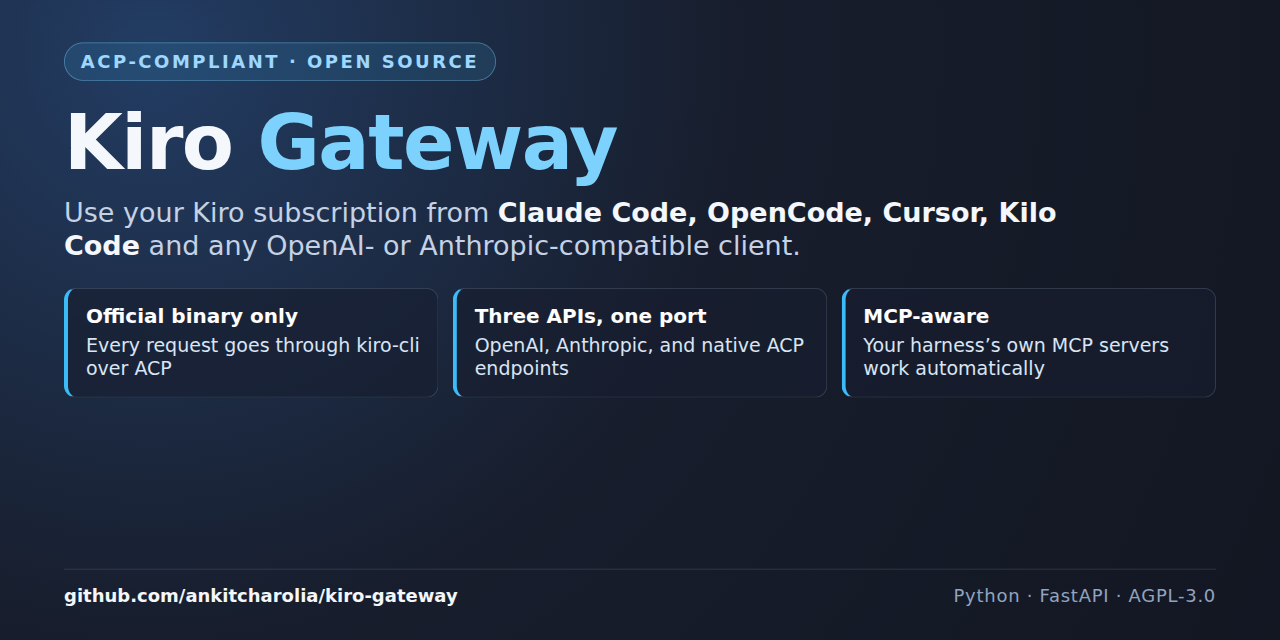
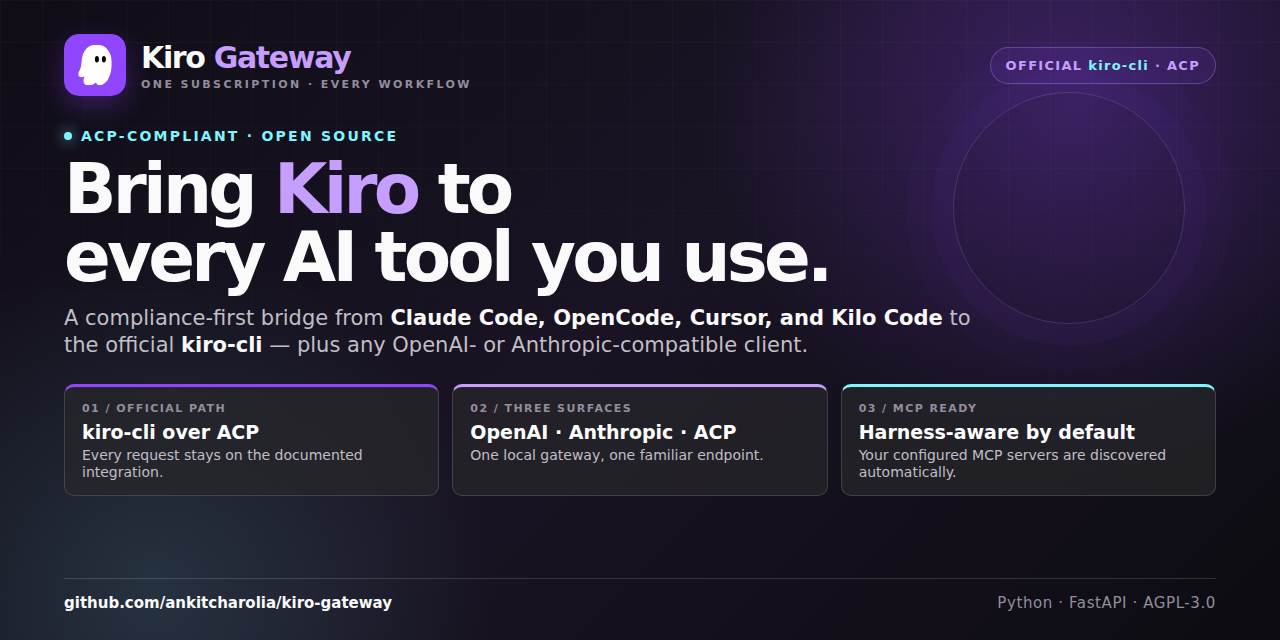
docs: refresh social preview and README navigation

diff --git a/assets/social-preview.html b/assets/social-preview.html
@@ -10,8 +10,10 @@
         --viewport-size=1280,640 \
         assets/social-preview.html assets/social-preview.png
 
-  Keep the claims here consistent with the root README: official kiro-cli only,
-  OpenAI/Anthropic/ACP translation, and harness MCP discovery.
+  The inline mark mirrors Kiro's official icon and keeps this preview
+  self-contained. Keep the claims here consistent with the root README:
+  official kiro-cli only, OpenAI/Anthropic/ACP translation, and harness MCP
+  discovery.
 -->
 <html lang="en">
   <head>
@@ -32,120 +34,281 @@
       }
 
       body {
+        position: relative;
         display: flex;
         flex-direction: column;
         justify-content: space-between;
-        padding: 42px 64px 34px;
-        background: radial-gradient(circle at 12% 8%, #1d3a63 0%, #101728 46%, #0a0f1c 100%);
-        color: #f4f7fb;
+        padding: 34px 64px 28px;
+        overflow: hidden;
+        background:
+          radial-gradient(circle at 84% 16%, rgba(144, 70, 255, 0.3), transparent 31%),
+          radial-gradient(circle at 12% 92%, rgba(128, 244, 255, 0.14), transparent 27%),
+          linear-gradient(135deg, #100d17 0%, #191323 48%, #0d0c12 100%);
+        color: #fafafa;
         font-family: "DejaVu Sans", "Liberation Sans", Arial, Helvetica, sans-serif;
+      }
+
+      body::before {
+        position: absolute;
+        inset: 0;
+        z-index: 0;
+        background-image:
+          linear-gradient(rgba(255, 255, 255, 0.035) 1px, transparent 1px),
+          linear-gradient(90deg, rgba(255, 255, 255, 0.035) 1px, transparent 1px);
+        background-size: 42px 42px;
+        content: "";
+        mask-image: linear-gradient(to bottom, rgba(0, 0, 0, 0.8), transparent 78%);
+      }
+
+      body::after {
+        position: absolute;
+        top: 92px;
+        right: 95px;
+        width: 230px;
+        height: 230px;
+        border: 1px solid rgba(197, 158, 255, 0.2);
+        border-radius: 50%;
+        box-shadow:
+          0 0 0 22px rgba(144, 70, 255, 0.045),
+          0 0 0 48px rgba(144, 70, 255, 0.025);
+        content: "";
+      }
+
+      .content,
+      footer {
+        position: relative;
+        z-index: 1;
+      }
+
+      .topbar {
+        display: flex;
+        align-items: center;
+        justify-content: space-between;
+      }
+
+      .brand {
+        display: flex;
+        align-items: center;
+        gap: 15px;
+      }
+
+      .brand-mark {
+        width: 62px;
+        height: 62px;
+        flex: 0 0 auto;
+        border-radius: 15px;
+        box-shadow: 0 10px 28px rgba(144, 70, 255, 0.3);
+      }
+
+      .brand-name {
+        color: #fafafa;
+        font-size: 30px;
+        font-weight: 700;
+        letter-spacing: -0.045em;
+      }
+
+      .brand-name span {
+        color: #c59eff;
+      }
+
+      .brand-subtitle {
+        margin-top: 3px;
+        color: #938d9c;
+        font-size: 11px;
+        font-weight: 700;
+        letter-spacing: 0.22em;
+        text-transform: uppercase;
+      }
+
+      .protocol {
+        padding: 10px 15px;
+        border: 1px solid rgba(197, 158, 255, 0.3);
+        border-radius: 999px;
+        background: rgba(144, 70, 255, 0.1);
+        color: #c59eff;
+        font-size: 13px;
+        font-weight: 700;
+        letter-spacing: 0.1em;
+      }
+
+      .protocol span {
+        color: #80f4ff;
+      }
+
+      .hero {
+        margin-top: 29px;
       }
 
       .eyebrow {
         display: inline-flex;
         align-items: center;
-        gap: 10px;
-        padding: 8px 16px;
-        border: 1px solid rgba(125, 211, 252, 0.42);
-        border-radius: 999px;
-        background: rgba(56, 189, 248, 0.12);
-        color: #9fd8ff;
-        font-size: 18px;
-        font-weight: 600;
-        letter-spacing: 0.14em;
+        gap: 9px;
+        color: #80f4ff;
+        font-size: 14px;
+        font-weight: 700;
+        letter-spacing: 0.16em;
         text-transform: uppercase;
-        align-self: flex-start;
+      }
+
+      .eyebrow::before {
+        width: 8px;
+        height: 8px;
+        border-radius: 50%;
+        background: #80f4ff;
+        box-shadow: 0 0 14px rgba(128, 244, 255, 0.9);
+        content: "";
       }
 
       h1 {
-        margin-top: 24px;
-        font-size: 76px;
-        line-height: 1;
+        max-width: 950px;
+        margin-top: 12px;
+        color: #fafafa;
+        font-size: 69px;
+        line-height: 0.98;
         font-weight: 700;
-        letter-spacing: -0.02em;
+        letter-spacing: -0.055em;
       }
 
-      h1 span {
-        color: #7dd3fc;
+      h1 .accent {
+        color: #c59eff;
       }
 
-      p.lede {
-        margin-top: 16px;
-        max-width: 1060px;
-        font-size: 27px;
-        line-height: 1.22;
-        color: #c6d3e6;
+      .lede {
+        max-width: 940px;
+        margin-top: 14px;
+        color: #c1bec6;
+        font-size: 21px;
+        line-height: 1.28;
       }
 
-      p.lede strong {
-        color: #f4f7fb;
+      .lede strong {
+        color: #fafafa;
         font-weight: 600;
       }
 
-      ul {
+      .features {
         display: flex;
-        gap: 14px;
+        gap: 13px;
+        margin-top: 25px;
         list-style: none;
-        margin-top: 26px;
       }
 
-      li {
+      .feature {
+        min-height: 93px;
         flex: 1;
-        padding: 16px 18px;
-        border: 1px solid rgba(148, 163, 184, 0.28);
-        border-left: 4px solid #38bdf8;
-        border-radius: 12px;
-        background: rgba(15, 23, 42, 0.62);
-        font-size: 19px;
-        line-height: 1.22;
-        color: #dbe6f5;
+        padding: 15px 17px 14px;
+        border: 1px solid rgba(193, 190, 198, 0.2);
+        border-top: 3px solid #9046ff;
+        border-radius: 10px;
+        background: rgba(39, 39, 42, 0.72);
+        box-shadow: inset 0 1px rgba(255, 255, 255, 0.045);
       }
 
-      li b {
+      .feature:nth-child(2) {
+        border-top-color: #c59eff;
+      }
+
+      .feature:nth-child(3) {
+        border-top-color: #80f4ff;
+      }
+
+      .feature-label {
         display: block;
-        margin-bottom: 5px;
+        margin-bottom: 7px;
+        color: #938d9c;
+        font-size: 11px;
+        font-weight: 700;
+        letter-spacing: 0.13em;
+      }
+
+      .feature strong {
+        display: block;
         color: #ffffff;
-        font-size: 20px;
+        font-size: 19px;
+        line-height: 1.08;
+      }
+
+      .feature p {
+        margin-top: 5px;
+        color: #c1bec6;
+        font-size: 14px;
+        line-height: 1.2;
       }
 
       footer {
         display: flex;
         align-items: center;
         justify-content: space-between;
-        margin-top: 22px;
-        padding-top: 16px;
-        border-top: 1px solid rgba(148, 163, 184, 0.24);
-        font-size: 18px;
-        color: #93a6c0;
+        padding-top: 15px;
+        border-top: 1px solid rgba(193, 190, 198, 0.2);
+        color: #938d9c;
+        font-size: 15px;
       }
 
-      footer .repo {
-        color: #f4f7fb;
+      .repo {
+        color: #fafafa;
         font-weight: 600;
       }
 
-      footer .tags {
+      .tags {
         letter-spacing: 0.04em;
       }
     </style>
   </head>
   <body>
-    <div>
-      <div class="eyebrow">ACP-compliant &middot; open source</div>
-      <h1>Kiro <span>Gateway</span></h1>
-      <p class="lede">
-        Use your Kiro subscription from <strong>Claude Code, OpenCode, Cursor, Kilo Code</strong>
-        and any OpenAI- or Anthropic-compatible client.
-      </p>
-      <ul>
-        <li><b>Official binary only</b>Every request goes through kiro-cli over ACP</li>
-        <li><b>Three APIs, one port</b>OpenAI, Anthropic, and native ACP endpoints</li>
-        <li><b>MCP-aware</b>Your harness&rsquo;s own MCP servers work automatically</li>
-      </ul>
+    <div class="content">
+      <div class="topbar">
+        <div class="brand">
+          <svg class="brand-mark" viewBox="0 0 1200 1200" fill="none" xmlns="http://www.w3.org/2000/svg" aria-label="Kiro logo">
+            <rect width="1200" height="1200" rx="260" fill="#9046FF" />
+            <mask id="kiro-mark-mask" style="mask-type: luminance" maskUnits="userSpaceOnUse" x="272" y="202" width="655" height="796">
+              <path d="M926.578 202.793H272.637V997.857H926.578V202.793Z" fill="white" />
+            </mask>
+            <g mask="url(#kiro-mark-mask)">
+              <path d="M398.554 818.914C316.315 1001.03 491.477 1046.74 620.672 940.156C658.687 1059.66 801.052 970.473 852.234 877.795C964.787 673.567 919.318 465.357 907.64 422.374C827.637 129.443 427.623 128.946 358.8 423.865C342.651 475.544 342.402 534.18 333.458 595.051C328.986 625.86 325.507 645.488 313.83 677.785C306.873 696.424 297.68 712.819 282.773 740.645C259.915 783.881 269.604 867.113 387.87 823.883L399.051 818.914H398.554Z" fill="white" />
+              <path d="M636.123 549.353C603.328 549.353 598.359 510.097 598.359 486.742C598.359 465.623 602.086 448.977 609.293 438.293C615.504 428.852 624.697 424.131 636.123 424.131C647.555 424.131 657.492 428.852 664.447 438.541C672.398 449.474 676.623 466.12 676.623 486.742C676.623 525.998 661.471 549.353 636.375 549.353H636.123Z" fill="black" />
+              <path d="M771.24 549.353C738.445 549.353 733.477 510.097 733.477 486.742C733.477 465.623 737.203 448.977 744.41 438.293C750.621 428.852 759.814 424.131 771.24 424.131C782.672 424.131 792.609 428.852 799.564 438.541C807.516 449.474 811.74 466.12 811.74 486.742C811.74 525.998 796.588 549.353 771.492 549.353H771.24Z" fill="black" />
+            </g>
+          </svg>
+          <div>
+            <div class="brand-name">Kiro <span>Gateway</span></div>
+            <div class="brand-subtitle">One subscription · every workflow</div>
+          </div>
+        </div>
+        <div class="protocol">OFFICIAL <span>kiro-cli</span> · ACP</div>
+      </div>
+
+      <main class="hero">
+        <div class="eyebrow">ACP-compliant · open source</div>
+        <h1>Bring <span class="accent">Kiro</span> to<br />every AI tool you use.</h1>
+        <p class="lede">
+          A compliance-first bridge from <strong>Claude Code, OpenCode, Cursor, and Kilo Code</strong>
+          to the official <strong>kiro-cli</strong> — plus any OpenAI- or Anthropic-compatible client.
+        </p>
+
+        <ul class="features">
+          <li class="feature">
+            <span class="feature-label">01 / OFFICIAL PATH</span>
+            <strong>kiro-cli over ACP</strong>
+            <p>Every request stays on the documented integration.</p>
+          </li>
+          <li class="feature">
+            <span class="feature-label">02 / THREE SURFACES</span>
+            <strong>OpenAI · Anthropic · ACP</strong>
+            <p>One local gateway, one familiar endpoint.</p>
+          </li>
+          <li class="feature">
+            <span class="feature-label">03 / MCP READY</span>
+            <strong>Harness-aware by default</strong>
+            <p>Your configured MCP servers are discovered automatically.</p>
+          </li>
+        </ul>
+      </main>
     </div>
+
     <footer>
       <span class="repo">github.com/ankitcharolia/kiro-gateway</span>
-      <span class="tags">Python &middot; FastAPI &middot; AGPL-3.0</span>
+      <span class="tags">Python · FastAPI · AGPL-3.0</span>
     </footer>
   </body>
 </html>

diff --git a/README.md b/README.md
@@ -1,5 +1,7 @@
 # ACP-Compliant Kiro Gateway — use Kiro from the AI tools you already use
 
+🌐 **Docs:** 🇪🇸 [Español](docs/es/README.md) · 🇵🇹 [Português](docs/pt/README.md) · 🇨🇳 [中文](docs/zh/README.md) · 🇯🇵 [日本語](docs/ja/README.md) · 🇰🇷 [한국어](docs/ko/README.md) · 🇷🇺 [Русский](docs/ru/README.md) · 🇮🇩 [Bahasa Indonesia](docs/id/README.md) · 📚 [documentation index](docs/README.md)
+
 [![CI](https://github.com/ankitcharolia/kiro-gateway/actions/workflows/ci.yml/badge.svg)](https://github.com/ankitcharolia/kiro-gateway/actions/workflows/ci.yml)
 [![License: AGPL-3.0](https://img.shields.io/badge/License-AGPL%203.0-blue.svg)](LICENSE)
 [![Python 3.14+](https://img.shields.io/badge/python-3.14%2B-3776AB?logo=python&logoColor=white)](https://www.python.org/)
@@ -34,25 +36,6 @@ curl -fsS http://localhost:8000/health
 ```
 
 Expected response: `{"status":"ok", "mode":"acp-cli-bridge", "version":"…"}`.
-
-## At a glance
-
-| Works well | Deliberate boundaries |
-|---|---|
-| OpenAI Chat + Responses, Anthropic Messages, and native ACP | Embeddings return `501` because ACP exposes no embeddings model |
-| Streaming and non-streaming responses with native reasoning/thinking shapes | Stateful Responses (`previous_response_id`) is rejected; `store` is a no-op |
-| Images, PDF text extraction, and automatic harness MCP discovery | Client-declared function calling is not honored by `kiro-cli`; use MCP for external tools |
-
-**Works with:** Claude Code · OpenCode · Cursor · Kilo Code · Cline · Continue · Hermes-agent · OpenClaw · Oh My Pi
-
-> ⭐ If this project saves you time, [star it to follow releases and compatibility updates](https://github.com/ankitcharolia/kiro-gateway/stargazers).
-> 💛 If you want to support ongoing maintenance, [☕ Buy Me a Coffee](https://buymeacoffee.com/achar) or [💸 PayPal](https://paypal.me/ankitcharolia).
-
-**Read in another language:** [Español](docs/es/README.md) · [Português](docs/pt/README.md) · [中文](docs/zh/README.md) · [日本語](docs/ja/README.md) · [한국어](docs/ko/README.md) · [Русский](docs/ru/README.md) · [Bahasa Indonesia](docs/id/README.md) · [documentation index](docs/README.md)
-
-> [!NOTE]
-> The root README is the canonical, most current guide. Translated documents are
-> helpful snapshots and may lag behind new endpoints or configuration options.
 
 ---
 
